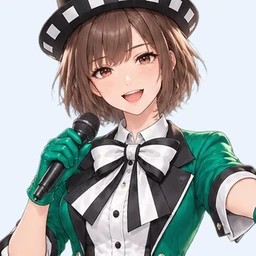
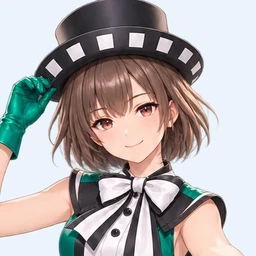
Ver.0.55.1.0 マリン・エナの顔アイコンを本来のRの絵から作り直し

diff --git a/index.html b/index.html
@@ -1,5 +1,5 @@
-<!doctype html><html lang="ja"><head><link rel="stylesheet" href="css/symbol_reactions_v0500.css?v=0.50.0.1"><meta charset="UTF-8"><meta name="viewport" content="width=device-width, initial-scale=1, viewport-fit=cover, interactive-widget=resizes-content"><meta name="theme-color" content="#f6f8ff"><title>宵星の契約者 | RE:START Ver.0.55.0.0</title><link rel="stylesheet" href="css/styles.css?v=0.55.0.0"><link rel="stylesheet" href="css/chibi_battle.css?v=20261109-enemy-layout-v1"><link rel="stylesheet" href="css/q6_classic_battle_v03540.css?v=20261109-classic-hitbox-v1"><link rel="stylesheet" href="css/battle_backgrounds_v1.css?v=20261106"><link rel="stylesheet" href="css/home_portrait_fit_v03550.css?v=0.49.0.0"><link rel="stylesheet" href="css/portrait_face_frame_v03560.css?v=0.49.0.0"><link rel="stylesheet" href="css/mobile_landscape_v03560_patch.css?v=20261103"><link rel="stylesheet" href="css/character_depth_v1.css?v=1"><link rel="stylesheet" href="css/character_acting_v1.css?v=20261104-2">
+<!doctype html><html lang="ja"><head><link rel="stylesheet" href="css/symbol_reactions_v0500.css?v=0.50.0.1"><meta charset="UTF-8"><meta name="viewport" content="width=device-width, initial-scale=1, viewport-fit=cover, interactive-widget=resizes-content"><meta name="theme-color" content="#f6f8ff"><title>宵星の契約者 | RE:START Ver.0.55.1.0</title><link rel="stylesheet" href="css/styles.css?v=0.55.0.0"><link rel="stylesheet" href="css/chibi_battle.css?v=20261109-enemy-layout-v1"><link rel="stylesheet" href="css/q6_classic_battle_v03540.css?v=20261109-classic-hitbox-v1"><link rel="stylesheet" href="css/battle_backgrounds_v1.css?v=20261106"><link rel="stylesheet" href="css/home_portrait_fit_v03550.css?v=0.49.0.0"><link rel="stylesheet" href="css/portrait_face_frame_v03560.css?v=0.49.0.0"><link rel="stylesheet" href="css/mobile_landscape_v03560_patch.css?v=20261103"><link rel="stylesheet" href="css/character_depth_v1.css?v=1"><link rel="stylesheet" href="css/character_acting_v1.css?v=20261104-2">
 <link rel="stylesheet" href="css/home_landscape_v05010.css?v=0.54.7.0">
 <link rel="stylesheet" href="css/zankyo_book_v05050.css?v=0.50.5.0">
 <link rel="stylesheet" href="css/battle_ui_dashboard_v1.css?v=20261109-fixed-hud-v2"><link rel="stylesheet" href="css/battle_immersive_v1.css?v=20261109-in-scene-1"><link rel="stylesheet" href="css/battle_readability_v1.css?v=20261109-readability-v2"></head><body><div id="app"></div>
-<script defer src="js/art.js?v=0.49.2.0"></script><script defer src="js/art_v2.js?v=0.55.0.0"></script><script defer src="js/romance7.js?v=0.49.2.0"></script><script defer src="js/romance_shinonome.js?v=0.49.2.0"></script><script defer src="js/romance_oldcafe.js?v=0.49.2.0"></script><script defer src="js/romance_stage_lines.js?v=0.49.2.0"></script><script defer src="js/romance_station.js?v=0.49.2.0"></script><script defer src="js/romance_school.js?v=0.49.2.0"></script><script defer src="js/romance_seaside.js?v=0.49.2.0"></script><script defer src="js/romance_lighthouse.js?v=0.49.2.0"></script><script defer src="js/romance_chapter2.js?v=0.49.2.0"></script><script defer src="js/romance_chapter2_late.js?v=0.49.2.0"></script><script defer src="js/expression_cues.js?v=0.49.2.0"></script><script defer src="js/expression_art_v029.js?v=0.49.2.0"></script><script defer src="js/expression_cues_v029.js?v=0.49.2.0"></script><script defer src="js/prologue_faces_v03439.js?v=0.49.2.0"></script><script defer src="js/audio.js?v=20261109-ruri-bgm-v1"></script><script defer src="js/audio_trial.js?v=0.49.2.0"></script><script defer src="js/romance_chapter3.js?v=0.49.2.0"></script><script defer src="js/romance_chapter3_late.js?v=0.49.2.0"></script><script defer src="js/romance_chapter4.js?v=0.52.1.0"></script><script defer src="js/romance_chapter5.js?v=0.49.2.0"></script><script defer src="js/chapter5_rewrite_v0360.js?v=0.49.2.0"></script><script defer src="js/chapter6_v0370.js?v=0.49.2.0"></script><script defer src="js/chapter7_v0380.js?v=0.49.2.0"></script><script defer src="js/chapter8_v0390.js?v=0.54.1.0"></script><script defer src="js/chapter9_v0400.js?v=0.49.2.0"></script><script defer src="js/chapter10_v0410.js?v=0.49.2.0"></script><script defer src="js/chapter11_v0430.js?v=0.49.2.0"></script><script defer src="js/chapter12_v0440.js?v=0.49.2.0"></script><script defer src="js/chapter13_v0450.js?v=0.49.2.0"></script><script defer src="js/chapter14_v0460.js?v=0.49.2.0"></script><script defer src="js/chapter15_v0470.js?v=0.49.2.0"></script><script defer src="js/chapter16_v0480.js?v=0.49.2.0"></script><script defer src="js/chapter17_v0490.js?v=0.49.2.0"></script><script defer src="js/chapter18_v0520.js?v=0.52.0.0"></script><script defer src="js/chapter19_v0530.js?v=0.53.0.0"></script><script defer src="js/chapter20_v0540.js?v=0.54.2.0"></script><script defer src="js/investigation.js?v=0.54.0.0"></script><script defer src="js/story_backgrounds_v031.js?v=0.54.0.0"></script><script defer src="js/portrait_fit_v031.js?v=0.49.2.0"></script><script defer src="js/new_units_v026.js?v=0.49.2.0"></script><script defer src="js/heroines_v027.js?v=0.49.2.0"></script><script defer src="js/heroines_v028.js?v=0.54.1.0"></script><script defer src="js/heroines_v0420.js?v=0.49.2.0"></script><script defer src="js/heroines_v0500.js?v=0.50.0.0"></script><script defer src="js/heroines_v0510_text.js?v=0.52.1.0"></script><script defer src="js/symbol_reactions_v0500.js?v=0.50.0.1"></script><script defer src="js/performance_v016.js?v=0.49.2.0"></script><script defer src="js/q12_hd2d.js?v=0.49.2.0"></script><script defer src="js/q12_cinematic.js?v=0.49.2.0"></script><script defer src="js/chibi_battle.js?v=0.49.2.0"></script><script defer src="js/zankyo_enemy_art_v03440.js?v=0.50.7.0"></script><script defer src="js/chibi_bridge_v03321.js?v=20261109-haruka-shadow-correct-v2"></script><script defer src="js/battle_turn_v032.js?v=0.53.0.0"></script><script defer src="js/battle_weakness_v033.js?v=0.49.2.0"></script><script defer src="js/battle_flames_v034.js?v=0.49.2.0"></script><script defer src="js/battle_flame_ui_v03410.js?v=0.49.2.0"></script><script defer src="js/battle_auto_v03454.js?v=0.49.2.0"></script><script defer src="js/ambient_v03438.js?v=0.49.2.0"></script><script defer src="js/story_rewrite_v03416.js?v=0.52.1.0"></script><script defer src="js/character_depth_v1.js?v=79"></script><script defer src="js/game.js?v=0.54.7.0"></script><script defer src="js/zankyo_book_v05050.js?v=0.50.7.0"></script><script defer src="js/haruka_chapter4_v03458.js?v=20261109-haruka-shadow-correct-v2"></script><script defer src="js/boss_director_v03462.js?v=0.53.0.0"></script><script defer src="js/q6_classic_battle_v03540.js?v=0.53.0.0"></script><script defer src="js/battle_backgrounds_v1.js?v=0.50.2.0"></script><script defer src="js/battle_immersive_v1.js?v=20261109-half-zones-v2"></script><script defer src="js/home_time_v05030.js?v=0.50.3.0"></script><script defer src="js/home_portrait_fit_v03550.js?v=0.49.2.0"></script><script defer src="js/portrait_faces_v03560.js?v=0.49.2.0"></script><script defer src="js/portrait_face_frame_v03560.js?v=0.49.2.0"></script><script defer src="js/story_weight_cues_v0359.js?v=0.49.2.0"></script><script defer src="js/heroines_v0500_wire.js?v=0.50.0.0"></script><script defer src="js/heroines_v0420_wire.js?v=0.49.2.0"></script><script defer src="js/juri_secret_gallery_v0425.js?v=0.49.2.0"></script></body></html>
+<script defer src="js/art.js?v=0.49.2.0"></script><script defer src="js/art_v2.js?v=0.55.1.0"></script><script defer src="js/romance7.js?v=0.49.2.0"></script><script defer src="js/romance_shinonome.js?v=0.49.2.0"></script><script defer src="js/romance_oldcafe.js?v=0.49.2.0"></script><script defer src="js/romance_stage_lines.js?v=0.49.2.0"></script><script defer src="js/romance_station.js?v=0.49.2.0"></script><script defer src="js/romance_school.js?v=0.49.2.0"></script><script defer src="js/romance_seaside.js?v=0.49.2.0"></script><script defer src="js/romance_lighthouse.js?v=0.49.2.0"></script><script defer src="js/romance_chapter2.js?v=0.49.2.0"></script><script defer src="js/romance_chapter2_late.js?v=0.49.2.0"></script><script defer src="js/expression_cues.js?v=0.49.2.0"></script><script defer src="js/expression_art_v029.js?v=0.49.2.0"></script><script defer src="js/expression_cues_v029.js?v=0.49.2.0"></script><script defer src="js/prologue_faces_v03439.js?v=0.49.2.0"></script><script defer src="js/audio.js?v=20261109-ruri-bgm-v1"></script><script defer src="js/audio_trial.js?v=0.49.2.0"></script><script defer src="js/romance_chapter3.js?v=0.49.2.0"></script><script defer src="js/romance_chapter3_late.js?v=0.49.2.0"></script><script defer src="js/romance_chapter4.js?v=0.52.1.0"></script><script defer src="js/romance_chapter5.js?v=0.49.2.0"></script><script defer src="js/chapter5_rewrite_v0360.js?v=0.49.2.0"></script><script defer src="js/chapter6_v0370.js?v=0.49.2.0"></script><script defer src="js/chapter7_v0380.js?v=0.49.2.0"></script><script defer src="js/chapter8_v0390.js?v=0.54.1.0"></script><script defer src="js/chapter9_v0400.js?v=0.49.2.0"></script><script defer src="js/chapter10_v0410.js?v=0.49.2.0"></script><script defer src="js/chapter11_v0430.js?v=0.49.2.0"></script><script defer src="js/chapter12_v0440.js?v=0.49.2.0"></script><script defer src="js/chapter13_v0450.js?v=0.49.2.0"></script><script defer src="js/chapter14_v0460.js?v=0.49.2.0"></script><script defer src="js/chapter15_v0470.js?v=0.49.2.0"></script><script defer src="js/chapter16_v0480.js?v=0.49.2.0"></script><script defer src="js/chapter17_v0490.js?v=0.49.2.0"></script><script defer src="js/chapter18_v0520.js?v=0.52.0.0"></script><script defer src="js/chapter19_v0530.js?v=0.53.0.0"></script><script defer src="js/chapter20_v0540.js?v=0.54.2.0"></script><script defer src="js/investigation.js?v=0.54.0.0"></script><script defer src="js/story_backgrounds_v031.js?v=0.54.0.0"></script><script defer src="js/portrait_fit_v031.js?v=0.49.2.0"></script><script defer src="js/new_units_v026.js?v=0.49.2.0"></script><script defer src="js/heroines_v027.js?v=0.49.2.0"></script><script defer src="js/heroines_v028.js?v=0.54.1.0"></script><script defer src="js/heroines_v0420.js?v=0.49.2.0"></script><script defer src="js/heroines_v0500.js?v=0.50.0.0"></script><script defer src="js/heroines_v0510_text.js?v=0.52.1.0"></script><script defer src="js/symbol_reactions_v0500.js?v=0.50.0.1"></script><script defer src="js/performance_v016.js?v=0.49.2.0"></script><script defer src="js/q12_hd2d.js?v=0.49.2.0"></script><script defer src="js/q12_cinematic.js?v=0.49.2.0"></script><script defer src="js/chibi_battle.js?v=0.49.2.0"></script><script defer src="js/zankyo_enemy_art_v03440.js?v=0.50.7.0"></script><script defer src="js/chibi_bridge_v03321.js?v=20261109-haruka-shadow-correct-v2"></script><script defer src="js/battle_turn_v032.js?v=0.53.0.0"></script><script defer src="js/battle_weakness_v033.js?v=0.49.2.0"></script><script defer src="js/battle_flames_v034.js?v=0.49.2.0"></script><script defer src="js/battle_flame_ui_v03410.js?v=0.49.2.0"></script><script defer src="js/battle_auto_v03454.js?v=0.49.2.0"></script><script defer src="js/ambient_v03438.js?v=0.49.2.0"></script><script defer src="js/story_rewrite_v03416.js?v=0.52.1.0"></script><script defer src="js/character_depth_v1.js?v=79"></script><script defer src="js/game.js?v=0.54.7.0"></script><script defer src="js/zankyo_book_v05050.js?v=0.50.7.0"></script><script defer src="js/haruka_chapter4_v03458.js?v=20261109-haruka-shadow-correct-v2"></script><script defer src="js/boss_director_v03462.js?v=0.53.0.0"></script><script defer src="js/q6_classic_battle_v03540.js?v=0.53.0.0"></script><script defer src="js/battle_backgrounds_v1.js?v=0.50.2.0"></script><script defer src="js/battle_immersive_v1.js?v=20261109-half-zones-v2"></script><script defer src="js/home_time_v05030.js?v=0.50.3.0"></script><script defer src="js/home_portrait_fit_v03550.js?v=0.49.2.0"></script><script defer src="js/portrait_faces_v03560.js?v=0.49.2.0"></script><script defer src="js/portrait_face_frame_v03560.js?v=0.49.2.0"></script><script defer src="js/story_weight_cues_v0359.js?v=0.49.2.0"></script><script defer src="js/heroines_v0500_wire.js?v=0.50.0.0"></script><script defer src="js/heroines_v0420_wire.js?v=0.49.2.0"></script><script defer src="js/juri_secret_gallery_v0425.js?v=0.49.2.0"></script></body></html>

diff --git a/js/art_v2.js b/js/art_v2.js
@@ -262,7 +262,7 @@ const ART_V2=Object.freeze({
 function characterArt(personId){return ART_V2.full_body[personId]||CANONICAL_ART[personId]||ART[personId]||'';}
 function characterPortrait(personId){return ART_V2.upper_body[personId]||characterArt(personId);}
 // Ver.0.55.0.0: 顔アイコンを作り直したR（新ヒロインは立ち絵）から顔中心の正方形で切り直した。古い画像が残らないよう版を付ける
-const FACE_ICON_VERSION='0.55.0.0';
+const FACE_ICON_VERSION='0.55.1.0';
 function characterIcon(personId){const p=ART_V2.face_icons[personId];if(!p)return characterArt(personId);const base=p.split('?')[0];return base+'?v='+FACE_ICON_VERSION;}
 // Keep the helper for older integrations, but the optional dynamic pose UI is retired.
 function hasDrivePose(personId){return false;}
